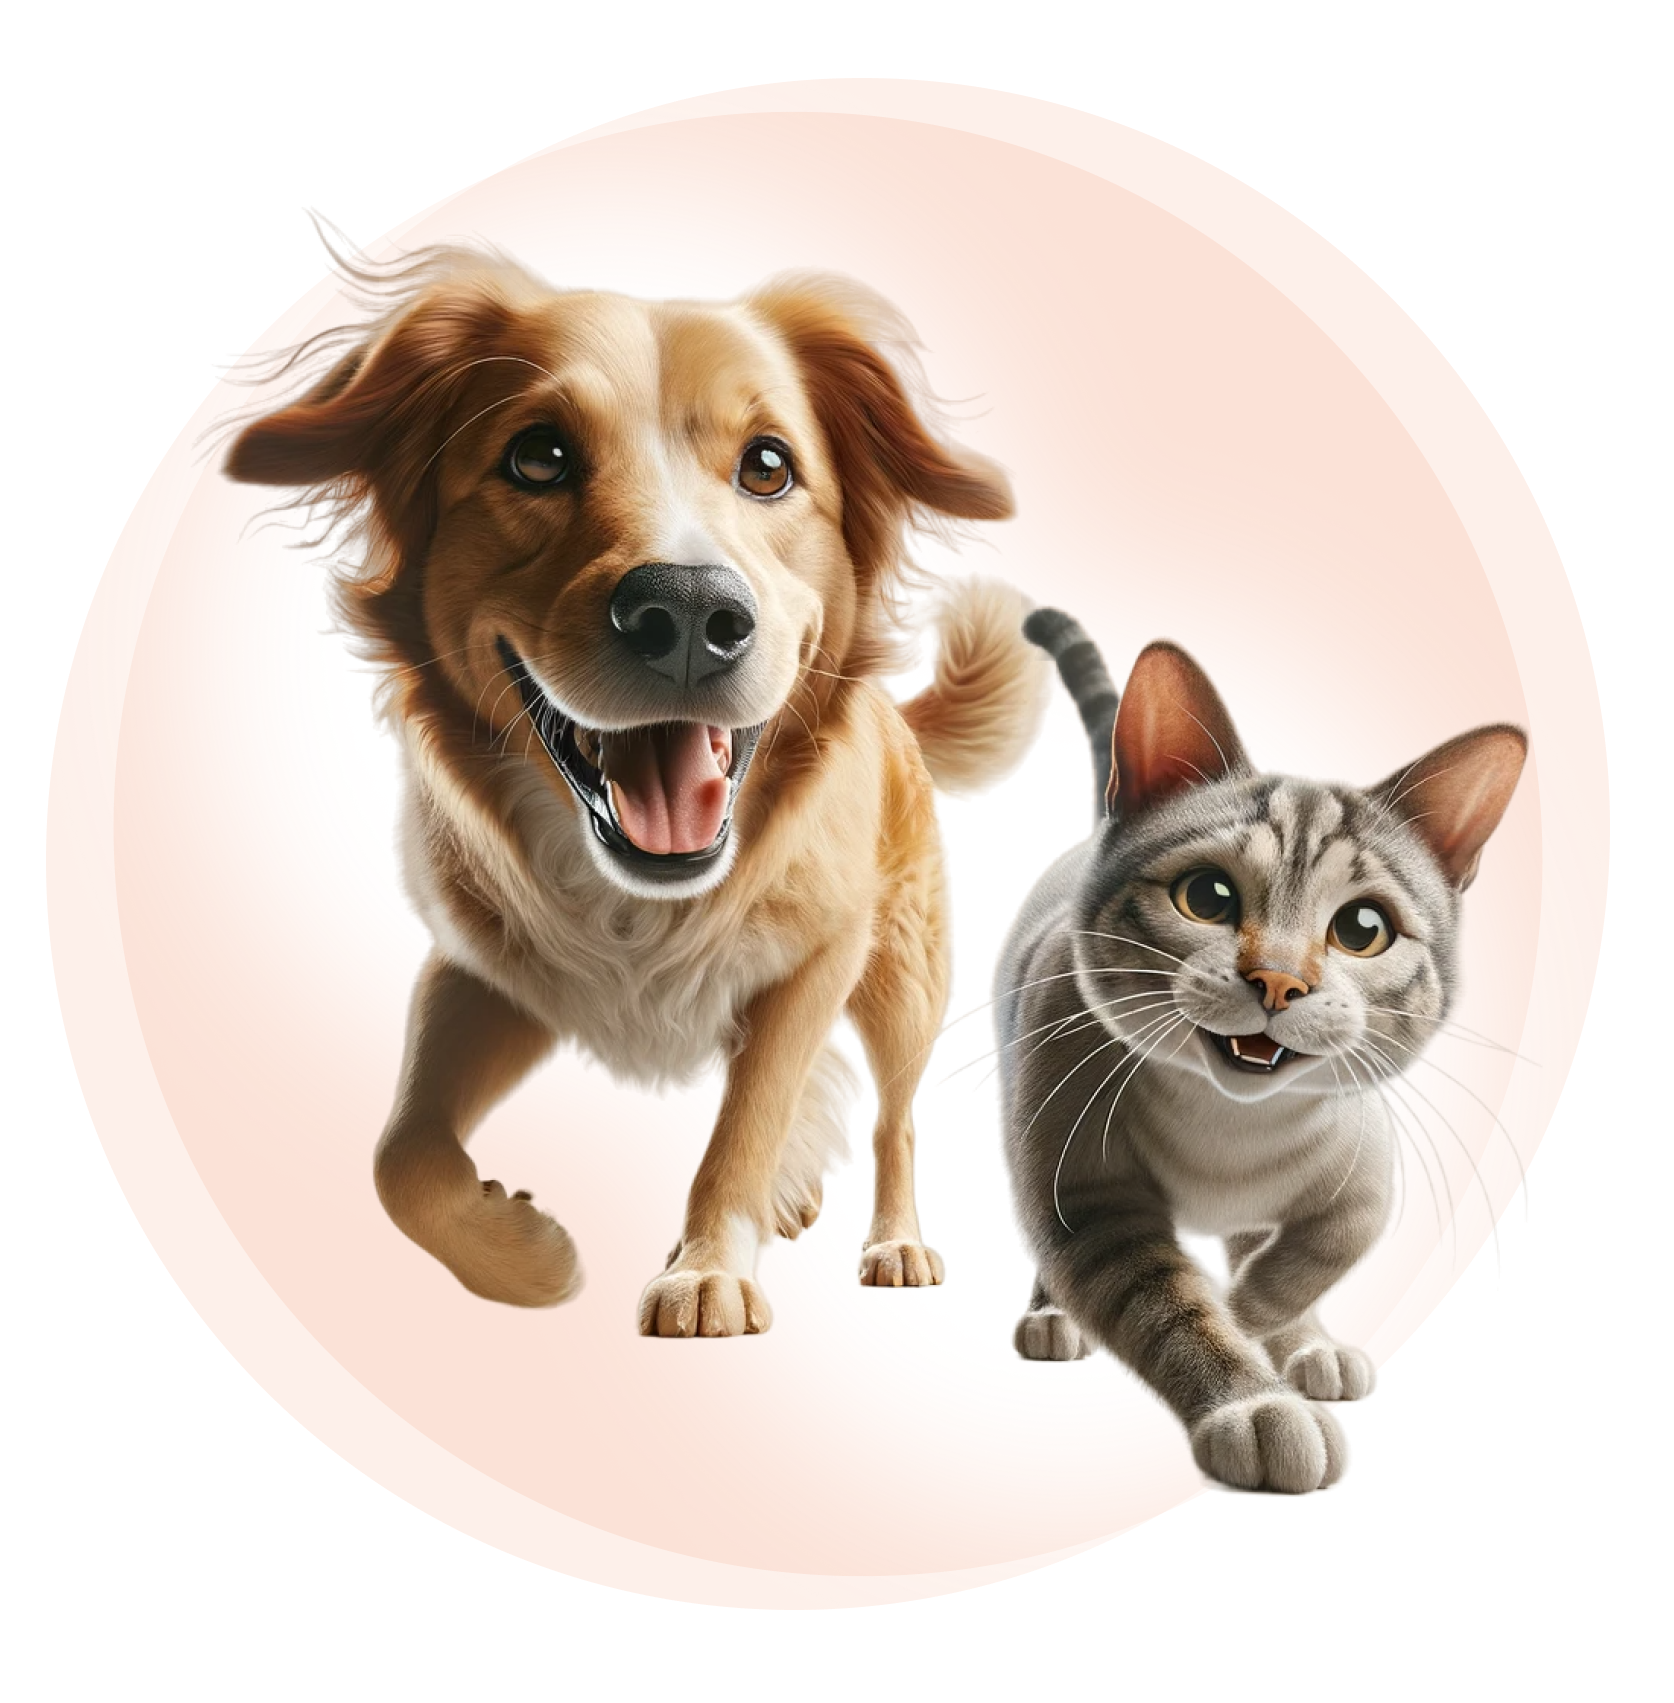
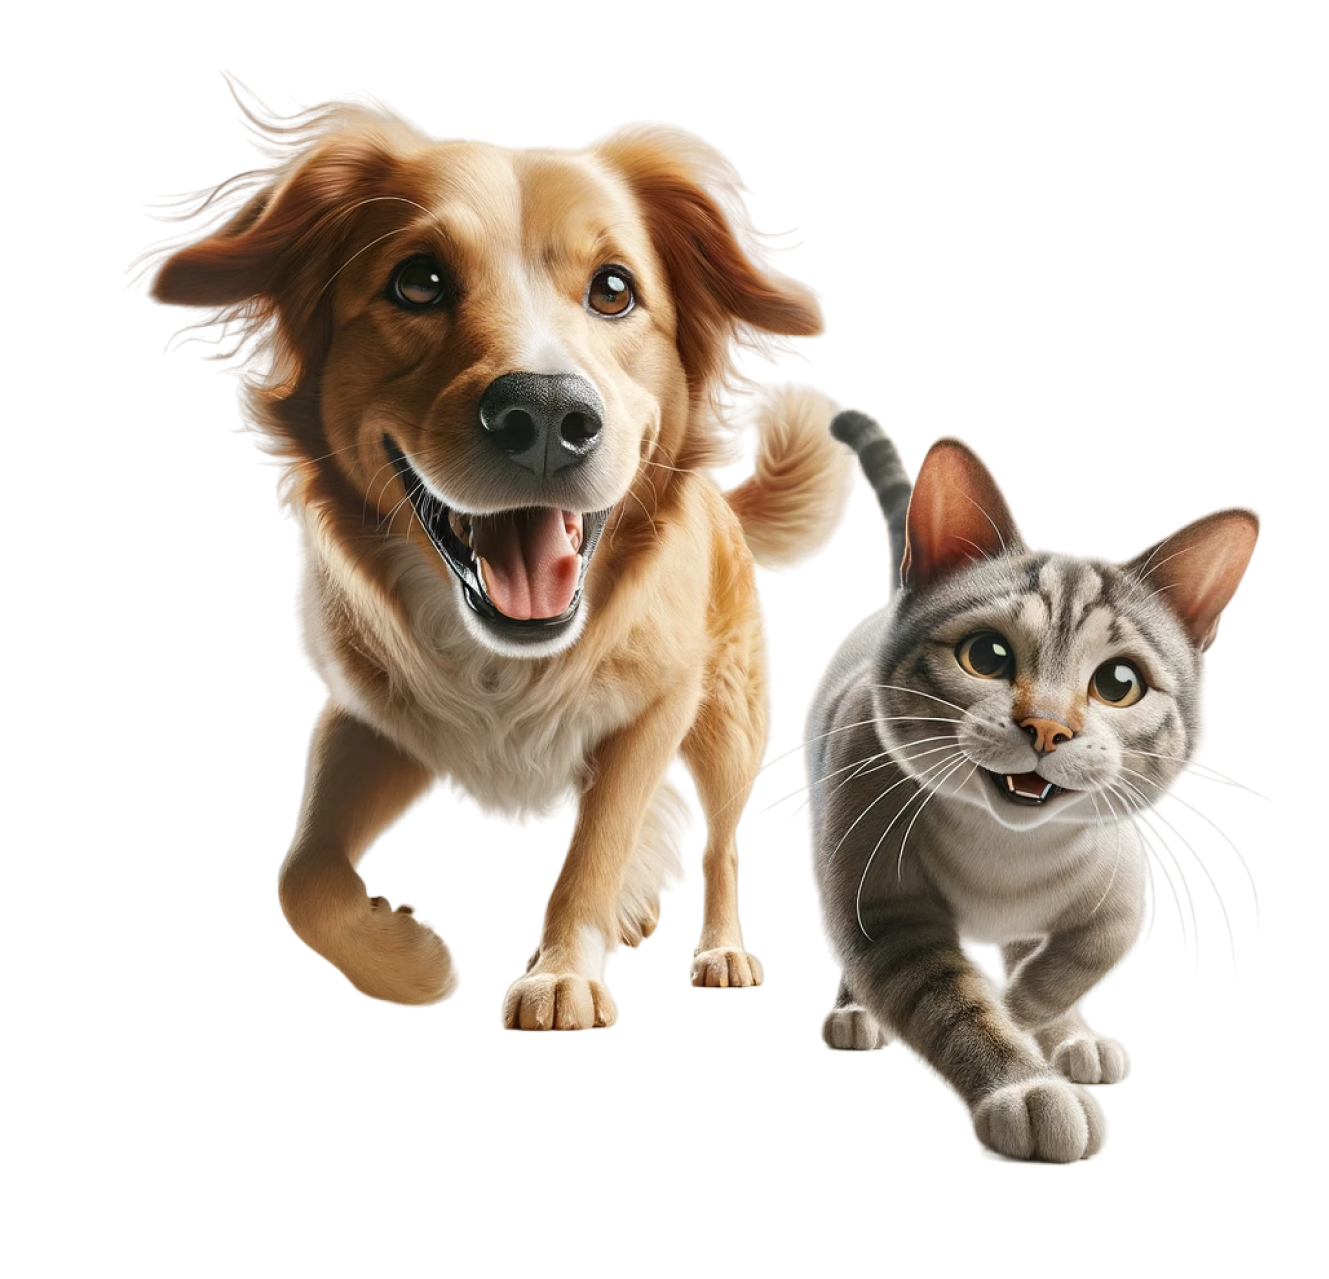
feat: Remove unused import and add animation to hero image

diff --git a/src/components/PageHome/Hero/Hero.styles.ts b/src/components/PageHome/Hero/Hero.styles.ts
@@ -1,4 +1,4 @@
-import styled from 'styled-components';
+import styled, { keyframes } from 'styled-components';
 
 export const HeroContainer = styled.section`
   display: grid;
@@ -10,18 +10,73 @@ export const HeroContainer = styled.section`
   padding: 0 8rem;
 `;
 
+export const CirclesContainer = styled.div`
+  position: absolute;
+  width: 100%;
+  height: 100%;
+  display: flex;
+  justify-content: center;
+  align-items: center;
+  z-index: -1;
+`;
+
+const rotate1 = keyframes`
+  0% {
+    transform: rotate(0deg);
+  }
+  100% {
+    transform: rotate(180deg);
+  }
+`;
+
+const rotate2 = keyframes`
+  0% {
+    transform: rotate(0deg);
+  }
+  100% {
+    transform: rotate(360deg);
+  }
+`;
+
+export const Circle = styled.div`
+  position: absolute;
+  width: 85%;
+  aspect-ratio: 1 / 1;
+  background-color: #eb612c;
+  border-radius: 50%;
+  opacity: 0.1;
+  z-index: -1;
+  animation: ${rotate1} 6s infinite alternate;
+  transform-origin: 48% 52%;
+
+  &.circle2 {
+    animation: ${rotate2} 12s infinite;
+    transform-origin: 52% 48%;
+  }
+`;
+
 export const HeroImageContainer = styled.div`
   display: flex;
   justify-content: center;
   align-items: center;
   width: 100%;
   height: 95%;
+  position: relative;
 `;
 
 export const ImageStyled = styled.img`
-  width: 100%;
-  height: 100%;
+  width: 95%;
+  height: 95%;
   object-fit: contain;
+`;
+
+const fadeIn = keyframes`
+  0% {
+    opacity: 0;
+  }
+  100% {
+    opacity: 1;
+  }
 `;
 
 export const HeroContentContainer = styled.div`
@@ -43,6 +98,7 @@ export const HeroTitle = styled.h1`
   font-size: 4.5rem;
   font-weight: 800;
   color: ${({ theme }) => theme.colors.primary};
+  animation: ${fadeIn} 2s;
 `;
 
 export const HeroDescription = styled.p`
@@ -52,4 +108,5 @@ export const HeroDescription = styled.p`
   white-space: pre-line;
   text-align: justify;
   width: 100%;
+  animation: ${fadeIn} 4s;
 `;

diff --git a/src/components/PageHome/Hero/HeroImage.tsx b/src/components/PageHome/Hero/HeroImage.tsx
@@ -1,4 +1,9 @@
-import { HeroImageContainer, ImageStyled } from './Hero.styles';
+import {
+  Circle,
+  CirclesContainer,
+  HeroImageContainer,
+  ImageStyled,
+} from './Hero.styles';
 
 interface HeroImageProps {
   image: string;
@@ -7,7 +12,11 @@ interface HeroImageProps {
 const HeroImage = ({ image }: HeroImageProps) => {
   return (
     <HeroImageContainer className="hero-image">
-      <ImageStyled src={image} alt="hero" />
+      <CirclesContainer>
+        <Circle />
+        <Circle className="circle2" />
+        <ImageStyled src={image} alt="hero" />
+      </CirclesContainer>
     </HeroImageContainer>
   );
 };

diff --git a/src/app/page.tsx b/src/app/page.tsx
@@ -11,7 +11,6 @@ import { useModal } from '@/hooks/useModal';
 import Modal from '@/components/Modal/Modal';
 import ModalLogin from '@/components/ModalLogin/ModalLogin';
 import { useState } from 'react';
-import { boolean } from 'yup';
 import {
   HeroBackgroundImage,
   MainContainer,

diff --git a/src/components/Button/Button.styles.ts b/src/components/Button/Button.styles.ts
@@ -37,6 +37,9 @@ export const Button = styled.button`
 
     &:hover {
       color: ${({ theme }) => theme.colors.secondary};
+      text-decoration: underline;
+      text-decoration-thickness: 0.1rem;
+      text-underline-offset: 0.6rem;
     }
   }
 
